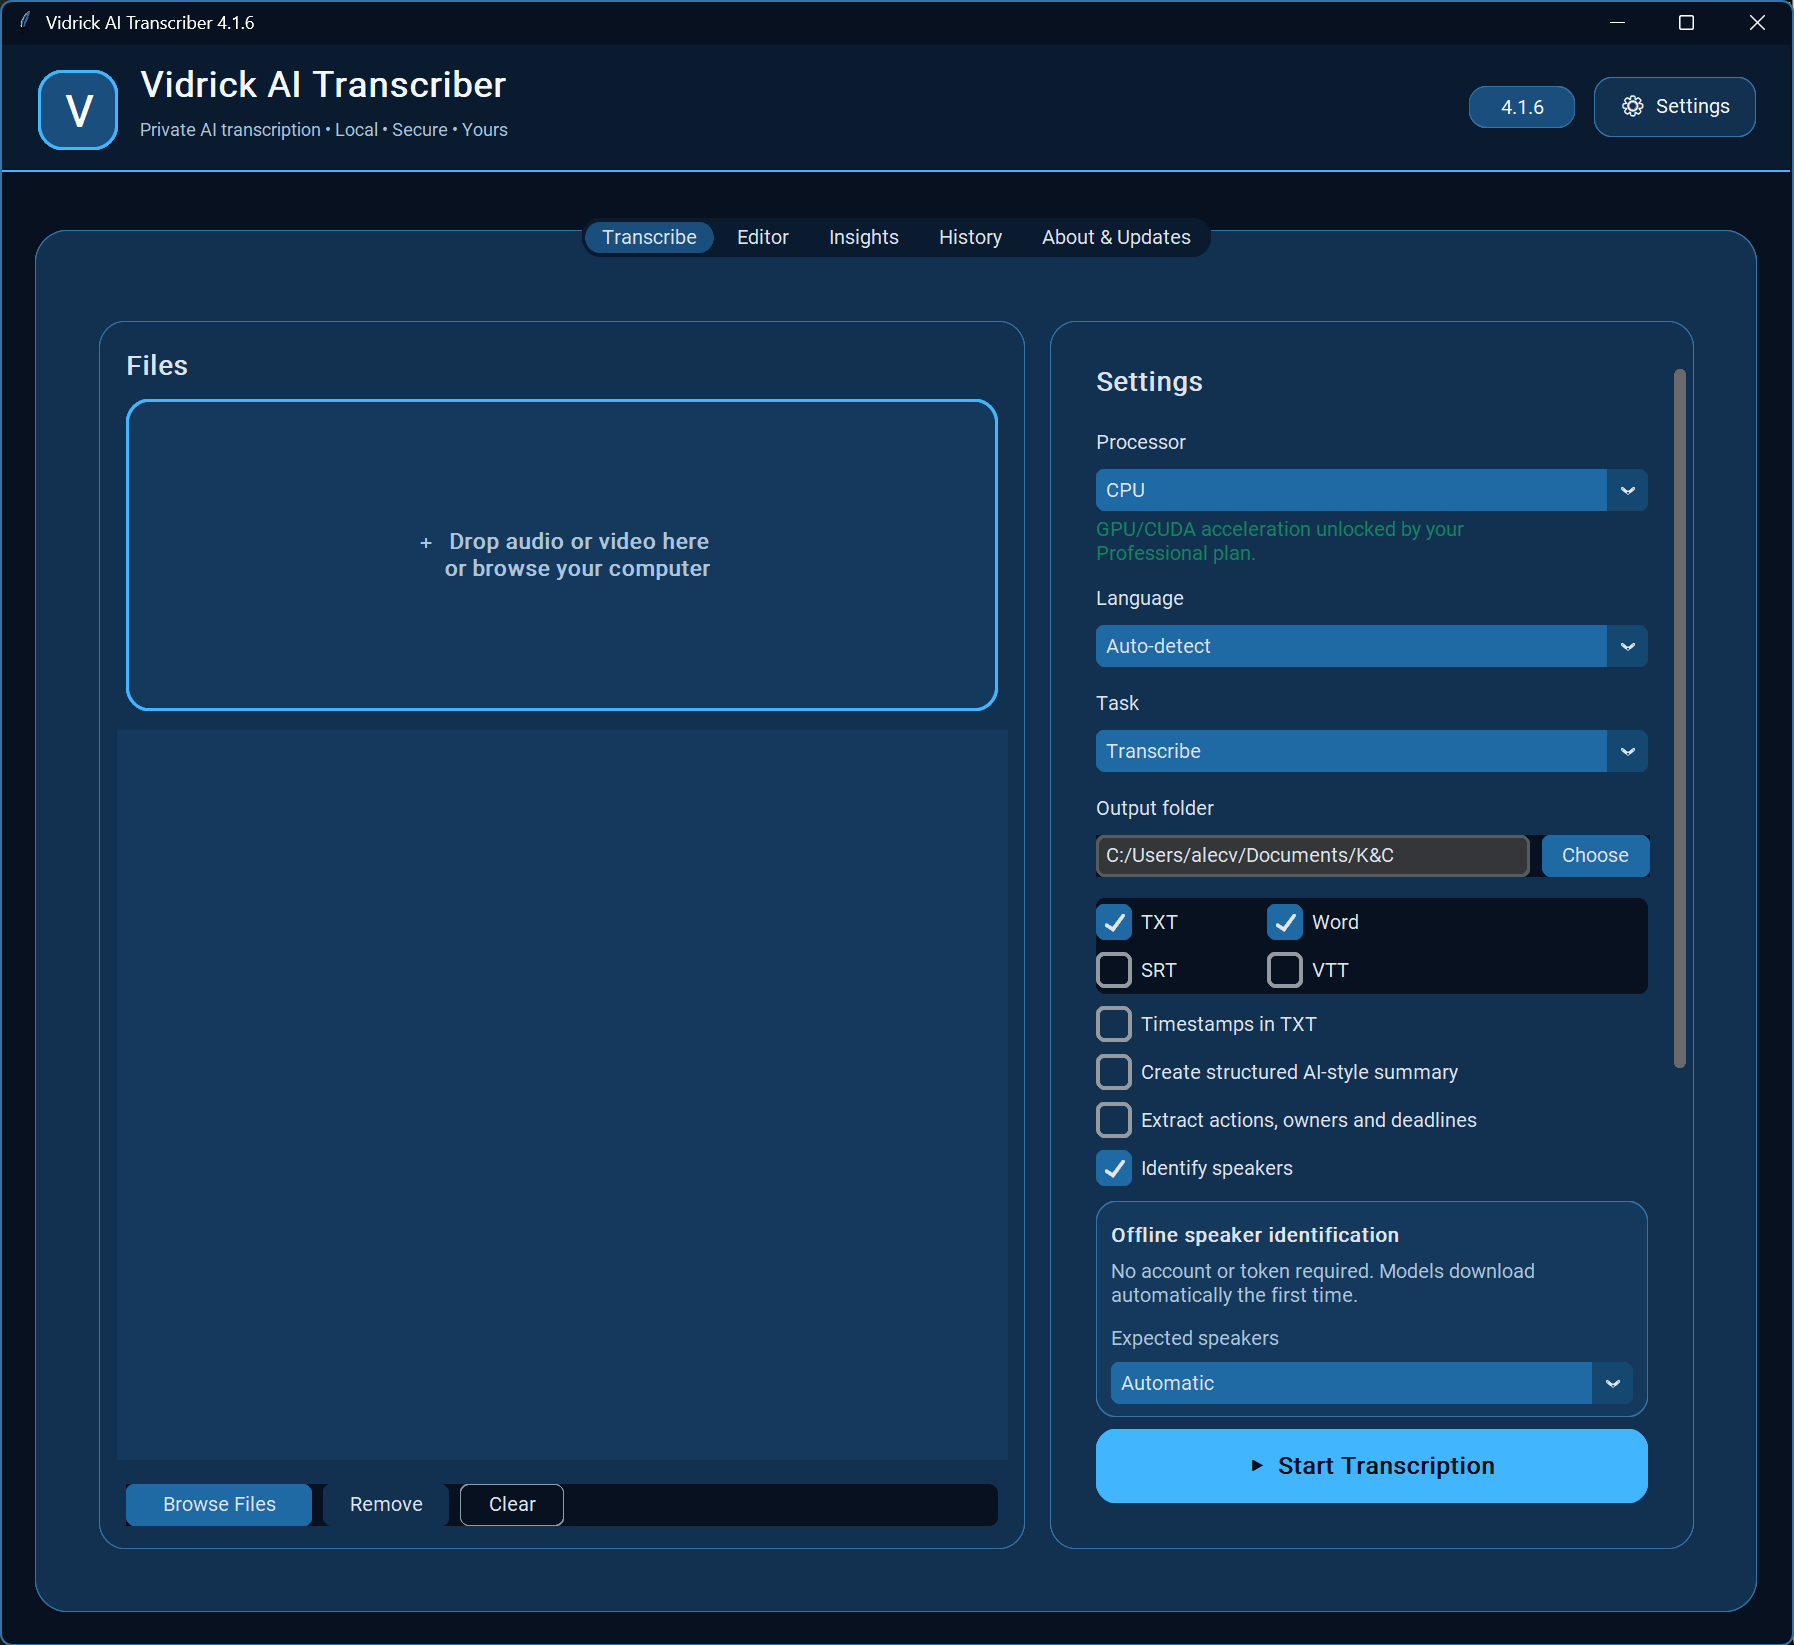
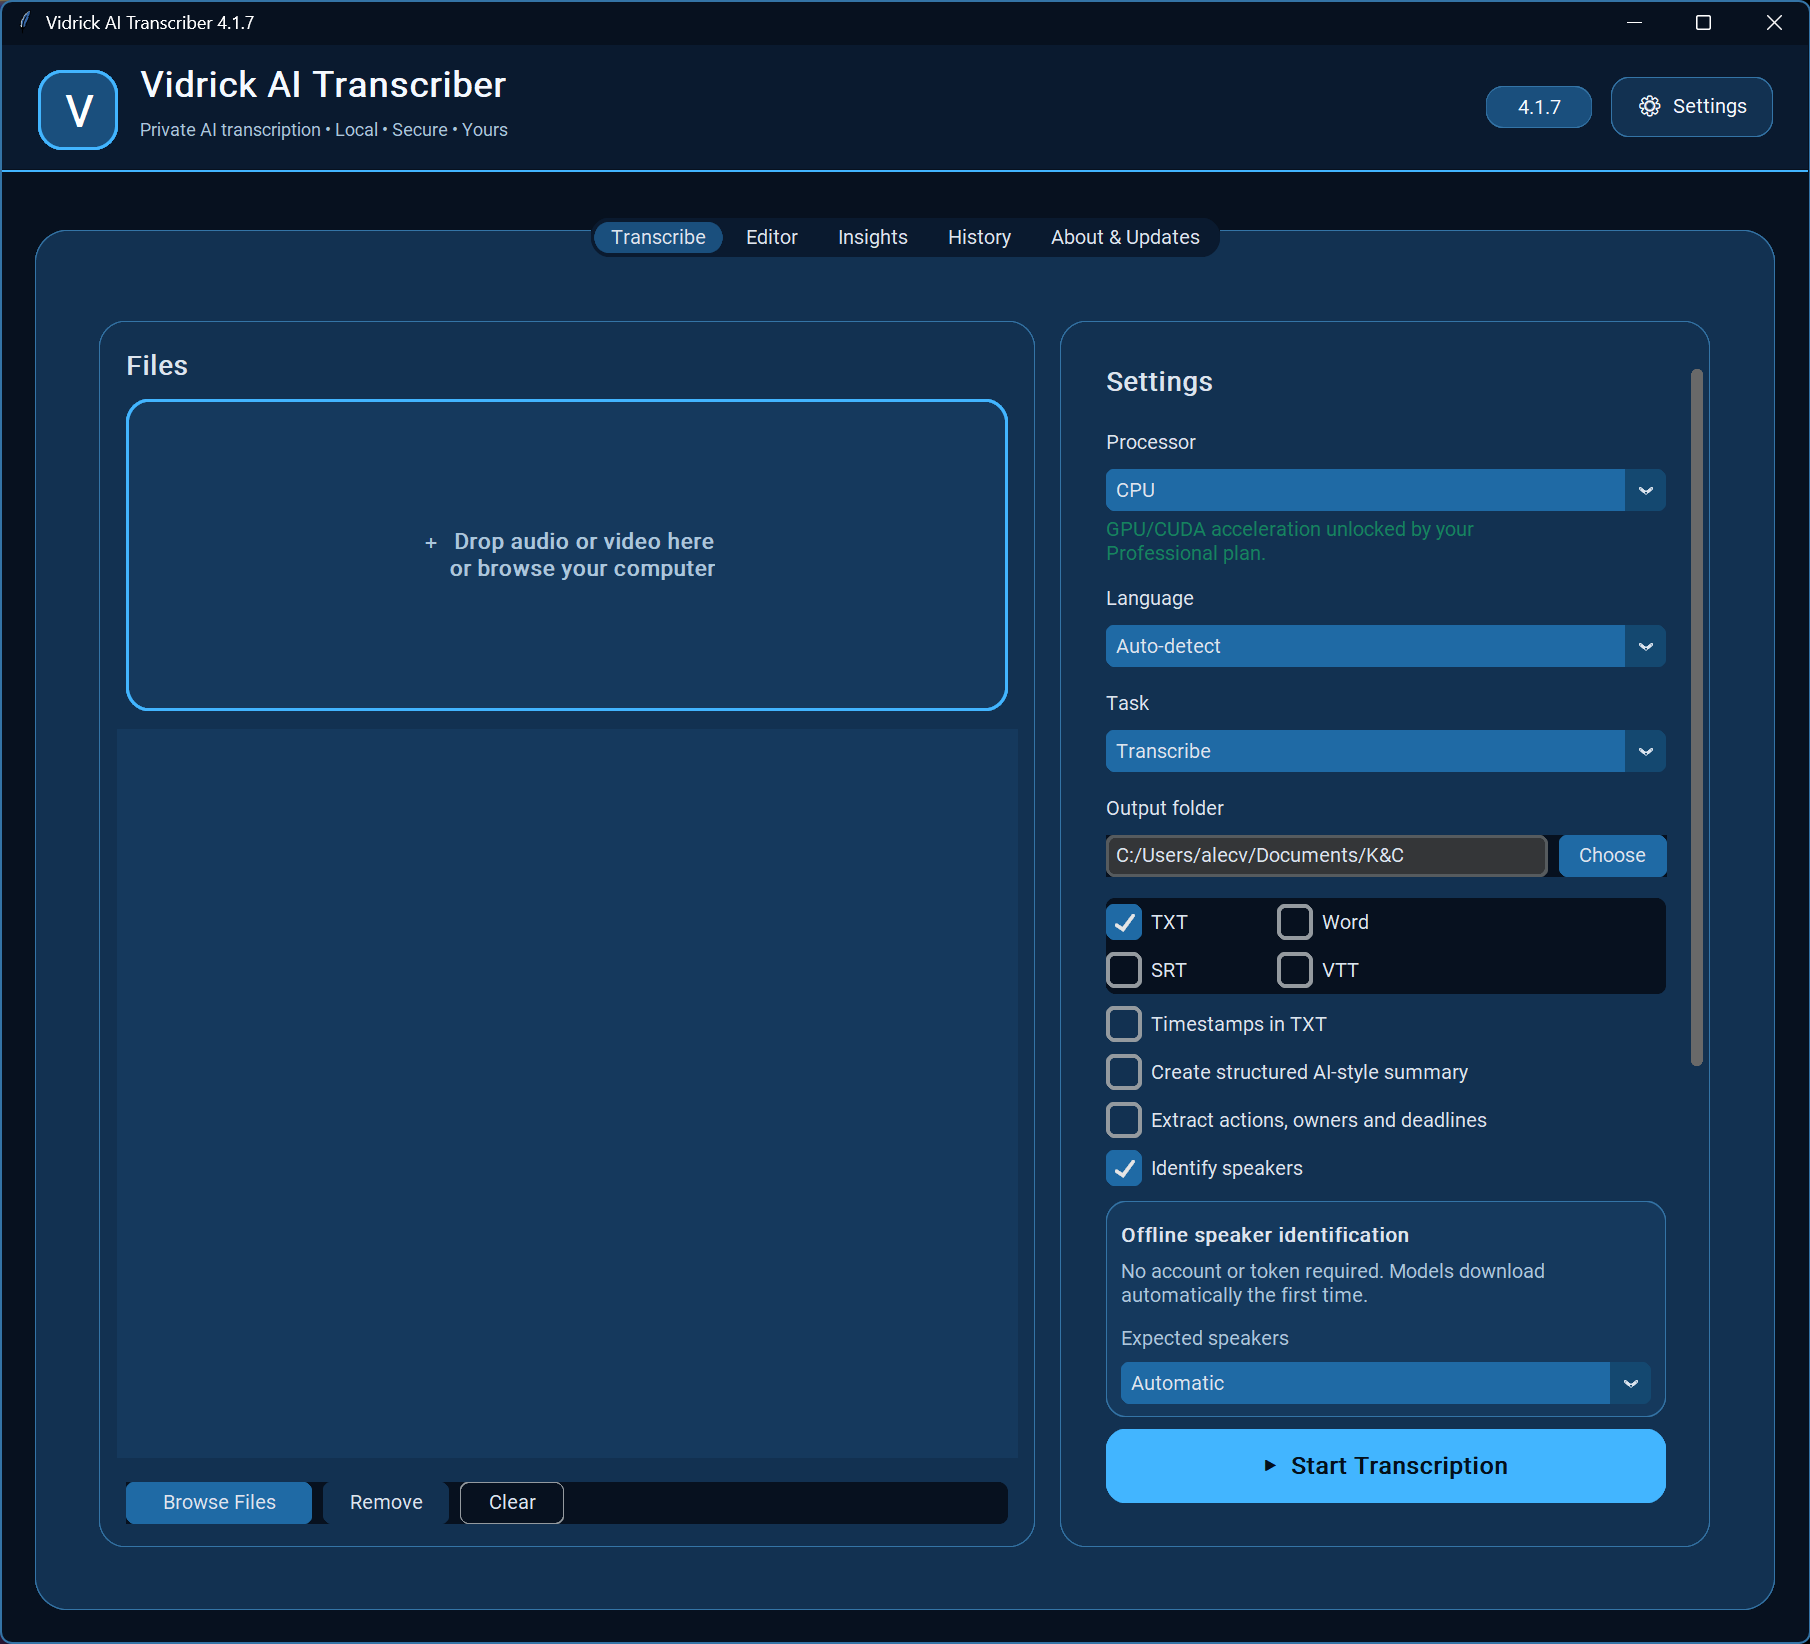
Update website for Vidrick AI Transcriber 4.1.7

diff --git a/index.html b/index.html
@@ -90,7 +90,7 @@
       </div>
 
       <div class="hero-shot screenshot-frame reveal">
-        <img src="assets/transcribe.png" alt="Vidrick AI Transcriber 4.1.6 transcription screen with local CPU processing and automatic speaker identification">
+        <img src="assets/transcribe.png" alt="Vidrick AI Transcriber 4.1.7 transcription screen with local CPU processing and automatic speaker identification">
       </div>
     </section>
 
@@ -108,7 +108,7 @@
         <p>When Vidrick opens for the first time, the welcome screen highlights the core experience: private local processing, speaker identification, conversation reconstruction, and professional export options.</p>
       </div>
       <div class="wide-shot screenshot-frame reveal welcome-shot">
-        <img src="assets/welcome-screen.png" alt="Vidrick AI Transcriber 4.1.6 welcome screen showing private local transcription, speaker identification, conversation reconstruction, and professional exports">
+        <img src="assets/welcome-screen.png" alt="Vidrick AI Transcriber 4.1.7 welcome screen showing private local transcription, speaker identification, conversation reconstruction, and professional exports">
       </div>
     </section>
 
@@ -127,7 +127,7 @@
         </ul>
       </div>
       <div class="screenshot-frame reveal">
-        <img src="assets/transcribe.png" alt="Vidrick AI Transcriber 4.1.6 transcription settings and file selection screen">
+        <img src="assets/transcribe.png" alt="Vidrick AI Transcriber 4.1.7 transcription settings and file selection screen">
       </div>
     </section>
 
@@ -155,7 +155,7 @@
         <p>Review completed transcripts, make corrections, and save the finished version without sending your conversation to another service.</p>
       </div>
       <div class="wide-shot screenshot-frame reveal">
-        <img src="assets/editor.png" alt="Vidrick AI Transcriber 4.1.6 transcript editor">
+        <img src="assets/editor.png" alt="Vidrick AI Transcriber 4.1.7 transcript editor">
       </div>
     </section>
 
@@ -172,7 +172,7 @@
         </ul>
       </div>
       <div class="screenshot-frame reveal">
-        <img src="assets/insights.png" alt="Vidrick AI Transcriber 4.1.6 AI Insights screen">
+        <img src="assets/insights.png" alt="Vidrick AI Transcriber 4.1.7 AI Insights screen">
       </div>
     </section>
 
@@ -189,7 +189,7 @@
         </ul>
       </div>
       <div class="screenshot-frame reveal">
-        <img src="assets/history.png" alt="Vidrick AI Transcriber 4.1.6 transcription history">
+        <img src="assets/history.png" alt="Vidrick AI Transcriber 4.1.7 transcription history">
       </div>
     </section>
 
@@ -200,7 +200,7 @@
         <p>See your installed version, check for updates, review privacy information, and learn what powers Vidrick — all from inside the app.</p>
       </div>
       <div class="wide-shot screenshot-frame reveal">
-        <img src="assets/about-updates.png" alt="Vidrick AI Transcriber 4.1.6 About and Updates screen">
+        <img src="assets/about-updates.png" alt="Vidrick AI Transcriber 4.1.7 About and Updates screen">
       </div>
     </section>
 
@@ -261,17 +261,18 @@ Okay.</pre>
     
     <section class="whats-new shell">
       <div class="section-heading reveal">
-        <div class="eyebrow">What’s new in 4.1.6</div>
-        <h2>Faster. Smarter speaker identification. More reliable.</h2>
-        <p>Version 4.1.6 focuses on real-world performance and reliability, with major improvements to CPU processing, Automatic speaker identification, model downloads, and transcript exports.</p>
+        <div class="eyebrow">What’s new in 4.1.7</div>
+        <h2>More accurate speakers. Cleaner conversations. Built for long recordings.</h2>
+        <p>Version 4.1.7 delivers a major upgrade to speaker identification and conversation reconstruction. Speaker identities stay more consistent, rapid handoffs are cleaner, and long multi-speaker recordings are handled with greater precision — while everything continues to run privately on your computer.</p>
       </div>
       <div class="update-grid">
-        <article class="glass reveal"><span class="update-badge">NEW · 4.1.6</span><h3>Faster CPU processing</h3><p>Hardware-aware CPU allocation makes better use of higher-core-count processors for transcription and speaker processing.</p></article>
-        <article class="glass reveal"><span class="update-badge">IMPROVED</span><h3>Smarter Automatic speakers</h3><p>Improved speaker-count inference and identity stability greatly reduce unnecessary speaker labels in conversations.</p></article>
-        <article class="glass reveal"><span class="update-badge">IMPROVED</span><h3>Better multi-speaker stability</h3><p>Recurring voices stay more consistent while genuinely different speakers can still be identified in complex recordings.</p></article>
-        <article class="glass reveal"><span class="update-badge">FASTER</span><h3>Speaker processing</h3><p>Diarization and speaker analysis can make better use of capable CPUs, improving long-form processing performance.</p></article>
-        <article class="glass reveal"><span class="update-badge">RELIABILITY</span><h3>More resilient model downloads</h3><p>Temporary DNS, SSL, connection, and timeout failures now receive automatic retries with controlled backoff.</p></article>
-        <article class="glass reveal"><span class="update-badge">RELIABILITY</span><h3>Improved DOCX &amp; exports</h3><p>Stronger Windows path handling and safer document creation improve reliability when saving completed work.</p></article>
+        <article class="glass reveal"><span class="update-badge">NEW · 4.1.7</span><h3>Stronger speaker identity</h3><p>Improved acoustic reconciliation keeps recurring voices more consistent across long conversations and helps reduce fragmented speaker labels.</p></article>
+        <article class="glass reveal"><span class="update-badge">IMPROVED</span><h3>Cleaner speaker handoffs</h3><p>New boundary intelligence handles rapid back-and-forth conversation more naturally, reducing words and short phrases assigned to the wrong speaker.</p></article>
+        <article class="glass reveal"><span class="update-badge">FASTER</span><h3>Improved processing time</h3><p>Long-recording speaker processing has been optimized to reduce unnecessary analysis passes, delivering faster results while preserving the improved speaker accuracy and local, private workflow.</p></article>
+        <article class="glass reveal"><span class="update-badge">IMPROVED</span><h3>Long-recording accuracy</h3><p>Multi-stage continuity analysis improves speaker stability in interviews, meetings, and other long recordings with many turns and participants.</p></article>
+        <article class="glass reveal"><span class="update-badge">SMARTER</span><h3>Conservative duplicate handling</h3><p>Potential duplicate speaker identities are evaluated using multiple acoustic samples, helping consolidate only when the evidence is strong while preserving real participants.</p></article>
+        <article class="glass reveal"><span class="update-badge">REFINED</span><h3>Better word ownership</h3><p>Word-level boundary refinement keeps short utterances and sentence endings together, producing cleaner, more readable speaker-separated transcripts.</p></article>
+        <article class="glass reveal"><span class="update-badge">PRIVATE</span><h3>Still completely local</h3><p>All transcription, speaker identification, conversation reconstruction, insights, and exports continue to run on your Windows PC — your recordings stay yours.</p></article>
       </div>
       <p class="local-note reveal"><strong>Still private by design.</strong> Transcription and speaker processing continue to run locally on your computer.</p>
     </section>
@@ -280,7 +281,7 @@ Okay.</pre>
       <div class="section-copy reveal">
         <div class="eyebrow">Multilingual transcription</div>
         <h2>57 selectable languages plus Auto-detect.</h2>
-        <p>Vidrick AI Transcriber 4.1.6 supports 57 named languages plus Auto-detect. Choose the recording language directly, or let Vidrick detect it automatically.</p>
+        <p>Vidrick AI Transcriber 4.1.7 supports 57 named languages plus Auto-detect. Choose the recording language directly, or let Vidrick detect it automatically.</p>
         <ul class="feature-list">
           <li>Includes English, Spanish, French, German, Portuguese, Arabic, Chinese, Hindi, Japanese, Korean, Russian, Ukrainian, Vietnamese and more</li>
           <li>Translate to English remains available</li>
@@ -289,7 +290,7 @@ Okay.</pre>
         <p><a href="multilingual-transcription.html">See multilingual transcription details →</a></p>
       </div>
       <div class="screenshot-frame reveal">
-        <img src="assets/transcribe.png" alt="Vidrick AI Transcriber 4.1.6 language and transcription settings">
+        <img src="assets/transcribe.png" alt="Vidrick AI Transcriber 4.1.7 language and transcription settings">
       </div>
     </section>
 
